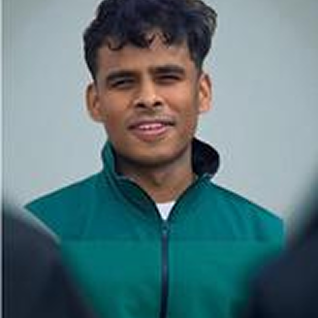
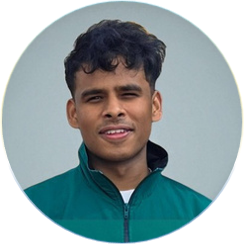
Add LinkedIn links and hover effect to team cards, update site assets

diff --git a/client/src/pages/Team.tsx b/client/src/pages/Team.tsx
@@ -4,34 +4,33 @@ import { Card, CardContent } from "@/components/ui/card";
 import { Button } from "@/components/ui/button";
 
 const teamCaptains = [
-  { name: "Thant Nyi Lwin", role: "Captain", image: "/figmaAssets/Thant Nyi Lwin.png" },
-  { name: "Tim Laurence Andal", role: "Captain", image: "/figmaAssets/Tim Laurence Andal.png" },
+  { name: "Thant Nyi Lwin", role: "Captain", image: "/figmaAssets/Thant Nyi Lwin.png", linkedin: "https://www.linkedin.com/in/thant-nyi-lwin/" },
+  { name: "Tim Laurence Andal", role: "Captain", image: "/figmaAssets/Tim Laurence Andal.png", linkedin: "https://www.linkedin.com/in/timlaurence-andal/" },
 ];
 
 const teamLeads = [
-  { name: "Mina Tadros", role: "Autonomous Navigation Lead", image: "/figmaAssets/Mina Tadros.png" },
-  { name: "Artemis Lee", role: "Autonomous Navigation Lead", image: "/figmaAssets/Artemis Lee.png" },
-  { name: "Doga Kaptanoglu", role: "Communications & Controls Lead", image: "/figmaAssets/Doga Kaptanoglu.jpg" },
-  { name: "Aayan Hossain", role: "Communications & Controls Lead", image: "/figmaAssets/Aayan Hossain.png" },
-  { name: "Karim Jaber", role: "Drivetrain & Chassis Lead", image: "/figmaAssets/Karim Jaber.png" },
-  { name: "Bagalavan Thurairatnam", role: "Drivetrain & Chassis Lead", image: "/figmaAssets/Bagalavan Thurairatnam.png" },
-  { name: "Jadd Hlaihel", role: "Drivetrain & Chassis Lead", image: "/figmaAssets/Jadd Hlaihel.png" },
-  { name: "Arnav Deb", role: "Power & Energy Systems Lead", image: "/figmaAssets/Arnav Deb.png" },
-  { name: "Shaxzood Mirkomilov", role: "Power & Energy Systems Lead", image: "/figmaAssets/Shaxzood Mirkomilov.jpg" },
-  { name: "Aashir Ahmed", role: "Arm Dynamics Lead", image: "/figmaAssets/Aashir Ahmed.png" },
+  { name: "Mina Tadros", role: "Autonomous Navigation Lead", image: "/figmaAssets/Mina Tadros.png", linkedin: "https://www.linkedin.com/in/mntadros/" },
+  { name: "Artemis Lee", role: "Autonomous Navigation Lead", image: "/figmaAssets/Artemis Lee.png", linkedin: "https://www.linkedin.com/in/artemisylee/" },
+  { name: "Doga Kaptanoglu", role: "Communications & Controls Lead", image: "/figmaAssets/Doga Kaptanoglu.jpg", linkedin: "https://www.linkedin.com/in/doga-kaptanoglu-dk/" },
+  { name: "Aayan Hossain", role: "Communications & Controls Lead", image: "/figmaAssets/Aayan Hossain.png", linkedin: "https://www.linkedin.com/in/aayan-hossain-8a4ba6274/" },
+  { name: "Karim Jaber", role: "Drivetrain & Chassis Lead", image: "/figmaAssets/Karim Jaber.png", linkedin: "https://www.linkedin.com/in/karim-jaber-957949369/" },
+  { name: "Jadd Hlaihel", role: "Drivetrain & Chassis Lead", image: "/figmaAssets/Jadd Hlaihel.png", linkedin: "https://www.linkedin.com/in/jaddhlaihel/" },
+  { name: "Arnav Deb", role: "Power & Energy Systems Lead", image: "/figmaAssets/Arnav Deb.png", linkedin: "https://www.linkedin.com/in/arnav-deb/" },
+  { name: "Shaxzood Mirkomilov", role: "Power & Energy Systems Lead", image: "/figmaAssets/Shaxzood Mirkomilov.jpg", linkedin: "https://www.linkedin.com/in/shaxzod-mirkomilov-9541a8267/" },
+  { name: "Aashir Ahmed", role: "Arm Dynamics Lead", image: "/figmaAssets/Aashir Ahmed.png", linkedin: "https://www.linkedin.com/in/aashir-ahmed-a52604272/" },
   { name: "Connie Dong", role: "Business Development Lead", image: "/figmaAssets/Connie Dong.png" },
-  { name: "Gulveer Kalle", role: "Business Development Lead", image: "/figmaAssets/Gulveer Kalle.jpg" },
-  { name: "Layla Fernandes", role: "Scientific Analysis Lead", image: "/figmaAssets/Layla Fernandes.png" },
+  { name: "Gulveer Kalle", role: "Business Development Lead", image: "/figmaAssets/Gulveer Kalle.jpg", linkedin: "https://www.linkedin.com/in/gulveer-kalle/" },
+  { name: "Layla Fernandes", role: "Scientific Analysis Lead", image: "/figmaAssets/Layla Fernandes.png", linkedin: "https://www.linkedin.com/in/layla-fernandes-914279382/" },
 ];
 
 const teamAdvisors = [
-  { name: "Tabitha Grant", role: "Advisor", image: "/figmaAssets/Tabitha Grant.png" },
-  { name: "Harjeev Kohli", role: "Founder & Advisor", image: "/figmaAssets/Harjeev Kohli.jpg" },
-  { name: "Umar Shabbir", role: "Advisor", image: "/figmaAssets/Umar Shabbir.png" },
-  { name: "Rida-E Fatima", role: "Advisor", image: "/figmaAssets/Rida-E Fatima.png" },
-  { name: "Ahmed Tabl", role: "Advisor", image: "/figmaAssets/Ahmed Tabl.png" },
-  { name: "Ashu Syal", role: "Advisor", image: "/figmaAssets/Ashu Syal.png" },
-  { name: "Aditya Sajwan", role: "Advisor", image: "/figmaAssets/Aditya Sajwan.png" },
+  { name: "Tabitha Grant", role: "Advisor", image: "/figmaAssets/Tabitha Grant.png", linkedin: "https://www.linkedin.com/in/tabithagrant/" },
+  { name: "Harjeev Kohli", role: "Founder & Advisor", image: "/figmaAssets/Harjeev Kohli.jpg", linkedin: "https://www.linkedin.com/in/harjeev-kohli/" },
+  { name: "Umar Shabbir", role: "Advisor", image: "/figmaAssets/Umar Shabbir.png", linkedin: "https://www.linkedin.com/in/umaremshabbir/" },
+  { name: "Rida-E Fatima", role: "Advisor", image: "/figmaAssets/Rida-E Fatima.jpg", linkedin:"https://www.linkedin.com/in/rida-efatima/" },
+  { name: "Ahmed Tabl", role: "Advisor", image: "/figmaAssets/Ahmed Tabl.png", linkedin:"https://www.linkedin.com/in/ahmed-tabl-12a040260/" },
+  { name: "Ashu Syal", role: "Advisor", image: "/figmaAssets/Ashu Syal.png", linkedin: "https://www.linkedin.com/in/ashutoshsyal/" },
+  { name: "Aditya Sajwan", role: "Advisor", image: "/figmaAssets/Aditya Sajwan.png", linkedin: "https://www.linkedin.com/in/adityasajwan10/" },
 ];
 
 const subteams = [
@@ -72,7 +71,9 @@ const subteams = [
   },
 ];
 
-const TeamMemberCard = ({ name, role, image }: { name: string; role: string; image: string }) => {
+const TeamMemberCard = ({name,role, image, linkedin,}:
+   {name: string; role: string; image: string; linkedin?: string;
+}) => {
   let designation = "";
   let displayRole = role;
 
@@ -82,16 +83,33 @@ const TeamMemberCard = ({ name, role, image }: { name: string; role: string; ima
     displayRole = role.substring(dashIndex + 3).trim();
   }
 
-  return (
-    <Card className="w-full md:w-[250px] rounded-[20px] bg-neutral-50 border-0 relative">
+  const card = (
+    <Card
+      className={`group w-full md:w-[250px] rounded-[20px] bg-neutral-50 border-0 relative transition duration-300 ${
+        linkedin ? "hover:-translate-y-2 hover:shadow-xl" : ""
+      }`}
+    >
       {designation && (
         <div className="absolute top-4 right-4 bg-[#0a1f44] text-white px-3 py-1 rounded-full text-xs md:text-sm font-semibold">
           {designation}
         </div>
       )}
       <CardContent className="p-6 text-center">
-        <div className="w-[200px] h-[200px] mx-auto mb-4 bg-gray-200 rounded-full flex items-center justify-center overflow-hidden">
-          <img src={image} alt={name} className="w-full h-full object-cover" />
+        <div className="relative w-[200px] h-[200px] mx-auto mb-4 bg-gray-200 rounded-full flex items-center justify-center overflow-hidden">
+          <img
+            src={image}
+            alt={name}
+            className={`w-full h-full object-cover transition duration-300 ${
+              linkedin ? "group-hover:scale-110" : ""
+            }`}
+          />
+          {linkedin && (
+            <div className="absolute inset-0 flex items-center justify-center bg-black/50 opacity-0 transition duration-300 group-hover:opacity-100">
+              <span className="rounded-full border border-white px-3 py-1 text-sm font-medium text-white">
+                View LinkedIn
+              </span>
+            </div>
+          )}
         </div>
         <div className="bg-gray-200 rounded-[20px] py-4 px-6">
           <p className="[font-family:'BeVietnam'] font-bold text-black text-[18px] md:text-[20px] tracking-[0] leading-[30px]">{name}</p>
@@ -99,6 +117,20 @@ const TeamMemberCard = ({ name, role, image }: { name: string; role: string; ima
         </div>
       </CardContent>
     </Card>
+  );
+
+  return linkedin ? (
+    <a
+      href={linkedin}
+      target="_blank"
+      rel="noopener noreferrer"
+      aria-label={`${name} on LinkedIn`}
+      className="block w-full md:w-[250px]"
+    >
+      {card}
+    </a>
+  ) : (
+    card
   );
 };
 
@@ -119,19 +151,53 @@ export const Team = () => {
             Team Captains
           </h2>
           <div className="flex flex-col md:flex-row justify-center gap-8 md:gap-16">
-            {teamCaptains.map((captain) => (
-              <Card key={captain.name} className="w-full md:w-[470px] rounded-[20px] bg-neutral-50 border-0">
-                <CardContent className="p-6 md:p-8 text-center">
-                  <div className="w-[250px] md:w-[317px] h-[250px] md:h-[317px] mx-auto mb-4 bg-gray-200 rounded-full flex items-center justify-center overflow-hidden">
-                    <img src={captain.image} alt={captain.name} className="w-full h-full object-cover" />
-                  </div>
-                  <div className="bg-gray-200 rounded-[20px] py-4 px-6">
-                    <p className="[font-family:'BeVietnam'] font-bold text-black text-[18px] md:text-[20px] tracking-[0] leading-[30px]">{captain.name}</p>
-                    <p className="[font-family:'BeVietnam'] font-normal text-black text-[14px] md:text-[15px] tracking-[0] leading-[30px]">{captain.role}</p>
-                  </div>
-                </CardContent>
-              </Card>
-            ))}
+            {teamCaptains.map((captain) => {
+  const card = (
+    <Card
+      className={`group w-full md:w-[470px] rounded-[20px] bg-neutral-50 border-0 transition duration-300 ${
+        captain.linkedin ? "hover:-translate-y-2 hover:shadow-xl" : ""
+      }`}
+    >
+      <CardContent className="p-6 md:p-8 text-center">
+        <div className="relative w-[250px] md:w-[317px] h-[250px] md:h-[317px] mx-auto mb-4 bg-gray-200 rounded-full flex items-center justify-center overflow-hidden">
+          <img
+            src={captain.image}
+            alt={captain.name}
+            className={`w-full h-full object-cover transition duration-300 ${
+              captain.linkedin ? "group-hover:scale-110" : ""
+            }`}
+          />
+          {captain.linkedin && (
+            <div className="absolute inset-0 flex items-center justify-center bg-black/50 opacity-0 transition duration-300 group-hover:opacity-100">
+              <span className="rounded-full border border-white px-4 py-2 text-sm font-medium text-white">
+                View LinkedIn
+              </span>
+            </div>
+          )}
+        </div>
+        <div className="bg-gray-200 rounded-[20px] py-4 px-6">
+          <p className="[font-family:'BeVietnam'] font-bold text-black text-[18px] md:text-[20px] tracking-[0] leading-[30px]">{captain.name}</p>
+          <p className="[font-family:'BeVietnam'] font-normal text-black text-[14px] md:text-[15px] tracking-[0] leading-[30px]">{captain.role}</p>
+        </div>
+      </CardContent>
+    </Card>
+  );
+
+  return captain.linkedin ? (
+    <a
+      key={captain.name}
+      href={captain.linkedin}
+      target="_blank"
+      rel="noopener noreferrer"
+      aria-label={`${captain.name} on LinkedIn`}
+      className="block w-full md:w-[470px]"
+    >
+      {card}
+    </a>
+  ) : (
+    <div key={captain.name}>{card}</div>
+  );
+})}
           </div>
         </div>
 
@@ -139,9 +205,9 @@ export const Team = () => {
           Team Leads
         </h2>
         <div className="grid grid-cols-1 md:grid-cols-4 gap-8 max-w-[1300px] mx-auto mb-24 justify-items-center">
-          {teamLeads.map((member) => (
-            <TeamMemberCard key={member.name} name={member.name} role={member.role} image={member.image} />
-          ))}
+         {teamLeads.map((member) => (
+          <TeamMemberCard key={member.name} name={member.name} role={member.role} image={member.image} linkedin={member.linkedin} />
+            ))}
         </div>
 
         <h2 className="[font-family:'Poppins'] font-bold text-[28px] md:text-[30px] text-black text-center mb-8">
@@ -149,9 +215,10 @@ export const Team = () => {
         </h2>
         <div className="grid grid-cols-1 md:grid-cols-4 gap-8 max-w-[1300px] mx-auto mb-24 justify-items-center">
           {teamAdvisors.map((member) => (
-            <TeamMemberCard key={member.name} name={member.name} role={member.role} image={member.image} />
-          ))}
+            <TeamMemberCard key={member.name} name={member.name} role={member.role} image={member.image} linkedin={member.linkedin} />
+        ))}
         </div>
+        
 
         <h2 className="[font-family:'Poppins'] font-bold text-[36px] md:text-[48px] text-black text-center mb-12">
           OUR SUBTEAMS

diff --git a/client/src/pages/Home.tsx b/client/src/pages/Home.tsx
@@ -91,7 +91,7 @@ export const Home = (): JSX.Element => {
               <img
                 className="w-full h-full object-cover rounded-[20px]"
                 alt="Image"
-                src="/figmaAssets/image-17.jpg"
+                src="/figmaAssets/CIRC-2026-MAIN-PAGE-PHOTO.jpg"
               />
             </div>
 
